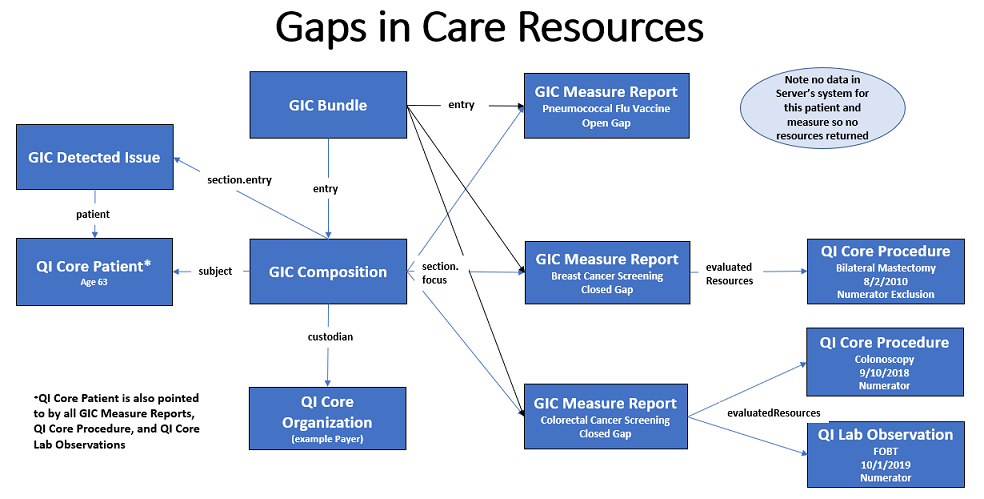
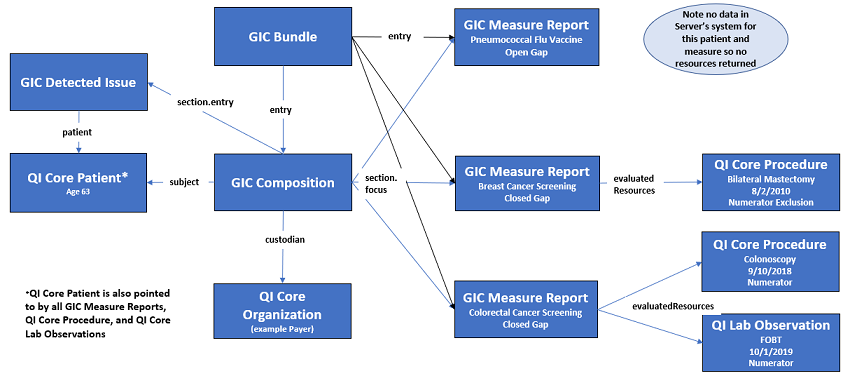
updated gic resources image and the bulk data description in gic reporting page.

diff --git a/input/pagecontent/gaps-examples.md b/input/pagecontent/gaps-examples.md
@@ -34,18 +34,16 @@ Gaps In Care Examples:
 |Practitioner|DEQM Practitioner Profile|[DEQM Practitioner]|
 |Procedure|QI Core Procedure Profile|[QI Core Procedure]|
 
-{% include img-portrait.html img="gic-resources.png" caption = "Figure 3-22 Gaps In Care Resources" %}
-
 ### Care Gaps Operation {#care-gaps}
 {:.no_toc}
 The Provider will use the Submit Data operation to submit a MeasureReport and the referenced resources required by the payers as supporting evidence for Colorectal Cancer Screening to the payer.  
 
-{% include img-portrait.html img="gaps-swimlane-caregap-report.png" caption = "Figure 3-23 Care Gaps Workflow" %}
+{% include img-portrait.html img="gaps-swimlane-caregap-report.png" caption = "Figure 3-22 Care Gaps Workflow" %}
 
 ### Gaps In Care MeasureReport
 {:.no_toc}
 
-{% include img-portrait.html img="gic-example-col.png" caption = "Figure 3-24 Gaps in Care Resources Colorectal Cancer Screening Measure Example" %}
+{% include img-portrait.html img="gic-example-col.png" caption = "Figure 3-23 Gaps in Care Resources Colorectal Cancer Screening Measure Example" %}
 
 ---
 </div>

diff --git a/input/pagecontent/gaps-in-care-reporting.md b/input/pagecontent/gaps-in-care-reporting.md
@@ -50,6 +50,8 @@ The following resources are used in the gaps in care measure reporting scenario:
 |Group|DEQM Gaps In Care Group Profile|[DEQM Gaps In Care Group Profile]|
 |Individual MeasureReport|DEQM Gaps In Care Individual MeasureReport Profile|[DEQM Gaps In Care Individual MeasureReport Profile]|
 
+{% include img-portrait.html img="gic-resources.png" caption = "Figure 2-14 Gaps In Care Resources" %}
+
 ### Gaps in Care Reporting
 (TODO: descriptions about gaps in care reporting)
 
@@ -75,8 +77,12 @@ GET [base]/Measure/$care-gaps?subject=Group/123&periodStart=2020-01-01&periodEnd
 Headers:
 * `Prefer respond-async`
 * `Accept application/fhir+json`
+</br>Note that both Accept and Prefer are required. Prefer specifies the response is immediate or asynchronous, which MUST be set to respond-async. Accept specifies the format of the optional OpeartionOutcome response to the kick-off request. Currently, only application/fhir+json is supported.
 
-NDJSON response:
+Query Parameters:
+* `_outputFormat (string, optional, defaults to application/fhir+ndjson)`
+
+NDJSON Response:
 
 <br />
 
